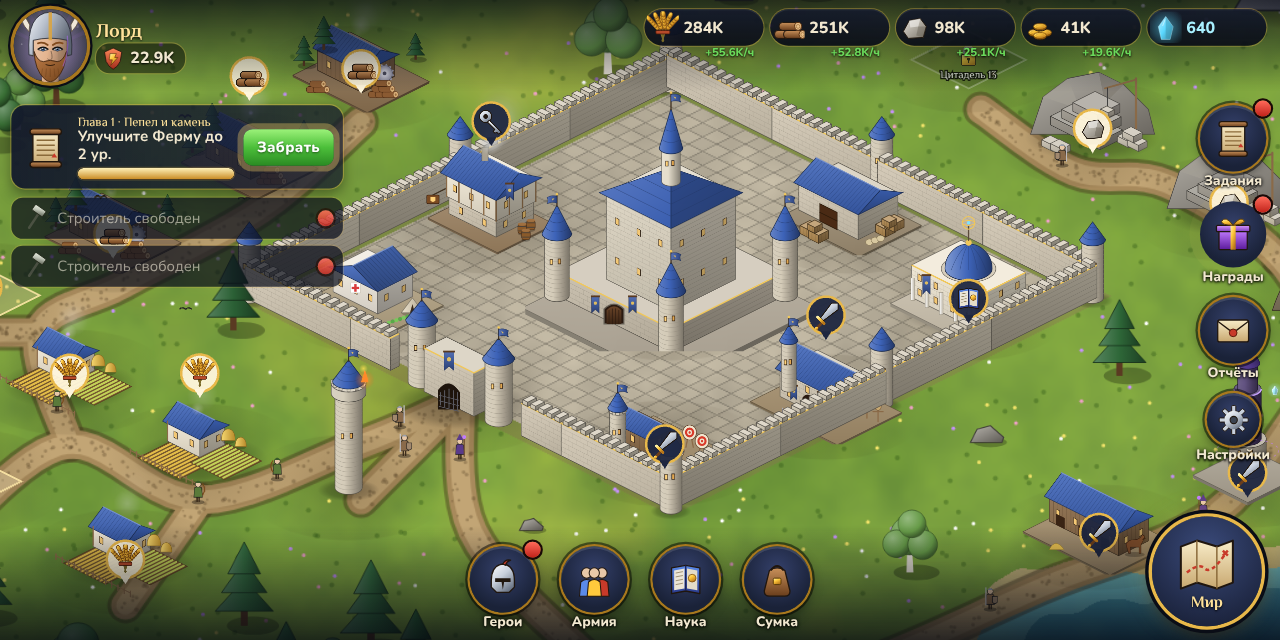
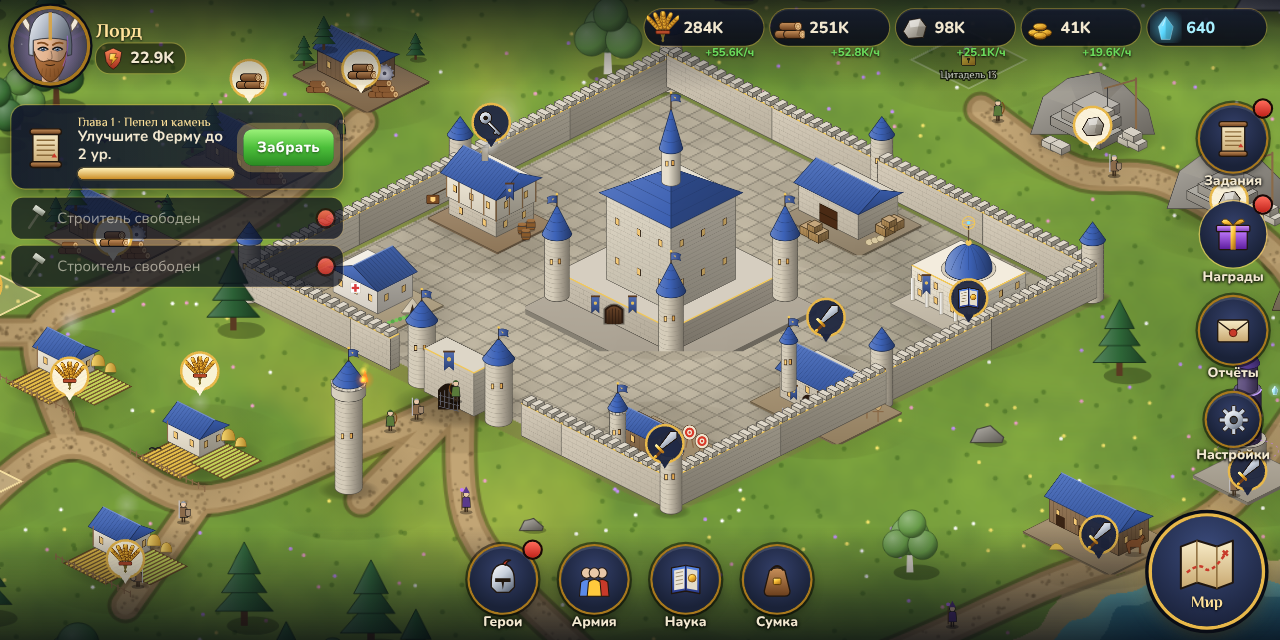
Performance: faster procedural painting, adaptive resolution, FPS meter
- Precomputed tileable noise replaces per-pixel fbm in visual painting
  (city ground 566→249 ms, world terrain 918→~560 ms on desktop)
- Lower texture density for the 'economy' quality preset, 30 FPS cap there
- Adaptive render resolution steps down when FPS stays low and back up when it recovers
- Optional FPS overlay in Settings; ticker stops while the app is in the background
- Fog of war: organic round edges and a blur that does not depend on ctx.filter
- Domain-warped biome borders remove blocky tile edges on the world map

Claude-Session: https://claude.ai/code/session_01FWABmDaWjHwgaijyh2JcTn

diff --git a/src/render/worldScene.ts b/src/render/worldScene.ts
@@ -1,6 +1,6 @@
 import { Container, Graphics, Sprite, Text, type Application } from 'pixi.js';
 import { bus } from '../core/bus';
-import { fbm, hash2 } from '../core/rng';
+import { hash2, noiseTile } from '../core/rng';
 import type { Legion, WorldObject } from '../core/types';
 import { campArt, castleArt, mountainArt, nodeArt, riftArt, riftVortex, ruinArt, soldierArt, titanArt, treeArt, hillArt } from '../art/worldArt';
 import { PALETTES } from '../art/buildings';
@@ -15,7 +15,7 @@ import { bake, canvasTexture, get, type Baked } from './textures';
 
 export const TILE = 64;
 const CHUNK = 16;
-const TEX_PER_TILE = 12;
+let TEX_PER_TILE = 12;
 
 const BASE: Record<number, [number, number, number]> = {
   // water tiles blend as wet sand; water itself is painted from the continuous height field
@@ -58,6 +58,7 @@ export class WorldScene {
   private selRing: Sprite | null = null;
   private selMarker: Container | null = null;
   private time = 0;
+  perf: Record<string, number> = {};
   private lastFogPaint = -9;
   private lastSync = 0;
 
@@ -76,6 +77,7 @@ export class WorldScene {
   }
 
   async init(progress?: (f: number) => void) {
+    TEX_PER_TILE = this.game.s.settings.quality === 'low' ? 8 : 12;
     const jobs: Promise<unknown>[] = [];
     const f = this.game.s.player.faction;
     for (let v = 0; v < 3; v++) jobs.push(bake(`wcamp:${v}`, () => campArt(v)));
@@ -97,10 +99,16 @@ export class WorldScene {
     let done = 0;
     jobs.forEach((j) => j.then(() => progress?.(++done / (jobs.length + 2))));
     await Promise.all(jobs);
+    let t = performance.now();
     this.paintTerrain();
+    this.perf.terrain = Math.round(performance.now() - t);
+    t = performance.now();
     progress?.((done + 1) / (jobs.length + 2));
     this.buildDecor();
+    this.perf.decor = Math.round(performance.now() - t);
+    t = performance.now();
     this.buildFog();
+    this.perf.fog = Math.round(performance.now() - t);
     this.syncObjects();
     this.syncLegions();
     bus.on('fog', () => { this.fogDirty = true; });
@@ -120,6 +128,8 @@ export class WorldScene {
     const d = img.data;
     const t = this.ter.t, h = this.ter.h;
     const seed = this.ter.seed;
+    // tile period: 32 px per lattice cell at octave 0 → scale k = 32 / featureSize
+    const NA = noiseTile(seed + 5, 256, 3, 8), NB = noiseTile(seed + 9, 256, 3, 8);
     const H = (x: number, y: number) => {
       x = Math.max(0, Math.min(n - 1.001, x)); y = Math.max(0, Math.min(n - 1.001, y));
       const xi = Math.floor(x), yi = Math.floor(y), ax = x - xi, ay = y - yi;
@@ -131,22 +141,24 @@ export class WorldScene {
       for (let px = 0; px < W; px++) {
         const fx = px / P - 0.5;
         const x0 = Math.max(0, Math.min(n - 1, Math.floor(fx))), x1 = Math.min(n - 1, x0 + 1), kx = Math.max(0, Math.min(1, fx - x0));
-        // jitter blend weights with noise for organic borders
-        const jn = fbm(px / 9, py / 9, seed + 5, 2) - 0.5;
-        const kxj = Math.max(0, Math.min(1, kx + jn * 0.7)), kyj = Math.max(0, Math.min(1, ky + jn * 0.7));
+        // bilinear blend of the four surrounding tiles…
         const c00 = BASE[t[y0 * n + x0]], c10 = BASE[t[y0 * n + x1]], c01 = BASE[t[y1 * n + x0]], c11 = BASE[t[y1 * n + x1]];
+        // …mixed with a domain-warped nearest tile, which turns square tile borders into organic shapes
+        const wx = Math.round(fx + (NA(px * 1.6, py * 1.6) - 0.5) * 3.2 + (NB(px * 5, py * 5) - 0.5) * 1.3);
+        const wy = Math.round(fy + (NA(px * 1.6 + 53, py * 1.6 + 29) - 0.5) * 3.2 + (NB(px * 5 + 31, py * 5 + 17) - 0.5) * 1.3);
+        const cw = BASE[t[Math.max(0, Math.min(n - 1, wy)) * n + Math.max(0, Math.min(n - 1, wx))]];
         let r = 0, g = 0, b = 0;
         for (let k = 0; k < 3; k++) {
-          const top = c00[k] * (1 - kxj) + c10[k] * kxj;
-          const bot = c01[k] * (1 - kxj) + c11[k] * kxj;
-          const v = top * (1 - kyj) + bot * kyj;
+          const top = c00[k] * (1 - kx) + c10[k] * kx;
+          const bot = c01[k] * (1 - kx) + c11[k] * kx;
+          const v = (top * (1 - ky) + bot * ky) * 0.35 + cw[k] * 0.65;
           if (k === 0) r = v; else if (k === 1) g = v; else b = v;
         }
         // continuous height for shading & water
         const hh = H(fx, fy);
         const hx = H(fx + 0.6, fy) - H(fx - 0.6, fy), hy = H(fx, fy + 0.6) - H(fx, fy - 0.6);
-        const detail = fbm(px / 3.5, py / 3.5, seed + 9, 2) - 0.5;
-        const wn = (fbm(px / 14, py / 14, seed + 11, 2) - 0.5) * 0.02;
+        const detail = NB(px * 9.1, py * 9.1) - 0.5;
+        const wn = (NB(px * 2.3 + 97, py * 2.3 + 41) - 0.5) * 0.02;
         if (hh + wn < 0.39) {
           const depth = Math.max(0, Math.min(1, (0.39 - hh) / 0.2));
           r = 70 - depth * 46 + detail * 8; g = 140 - depth * 70 + detail * 10; b = 168 - depth * 40 + detail * 10;
@@ -154,7 +166,7 @@ export class WorldScene {
         } else {
           const shadeV = (-hx - hy) * 140;
           r += shadeV + detail * 22; g += shadeV + detail * 22; b += shadeV * 0.8 + detail * 14;
-          const macro = fbm(px / 60, py / 60, seed + 17, 3) - 0.5;
+          const macro = NA(px * 0.53 + 131, py * 0.53 + 77) - 0.5;
           r += macro * 26; g += macro * 22; b += macro * 10;
         }
         const i = (py * W + px) * 4;
@@ -235,6 +247,7 @@ export class WorldScene {
 
   private cloudCanvas: HTMLCanvasElement | null = null;
   private maskCanvas: HTMLCanvasElement | null = null;
+  private blurCanvas: HTMLCanvasElement | null = null;
   private paintFog() {
     const n = this.ter.size, P = 6, W = n * P;
     if (!this.cloudCanvas) {
@@ -242,8 +255,9 @@ export class WorldScene {
       cc.width = cc.height = W;
       const cx = cc.getContext('2d')!;
       const img = cx.createImageData(W, W);
+      const CN = noiseTile(777, 256, 5, 4);
       for (let y = 0; y < W; y++) for (let x = 0; x < W; x++) {
-        const v = fbm(x / 40, y / 40, 777, 4);
+        const v = CN(x * 0.34, y * 0.34);
         const i = (y * W + x) * 4;
         img.data[i] = 150 + v * 90; img.data[i + 1] = 162 + v * 84; img.data[i + 2] = 186 + v * 64; img.data[i + 3] = 255;
       }
@@ -261,12 +275,24 @@ export class WorldScene {
     m.clearRect(0, 0, W, W);
     m.fillStyle = '#000';
     const fog = this.game.fog;
-    for (let y = 0; y < n; y++) for (let x = 0; x < n; x++) if (fog[y * n + x]) m.fillRect(x * P - 1, y * P - 1, P + 2, P + 2);
+    // round brushes give organic edges; interior tiles use cheap rects
+    for (let y = 0; y < n; y++) for (let x = 0; x < n; x++) {
+      if (!fog[y * n + x]) continue;
+      const edge = x === 0 || y === 0 || x === n - 1 || y === n - 1 || !fog[y * n + x - 1] || !fog[y * n + x + 1] || !fog[(y - 1) * n + x] || !fog[(y + 1) * n + x];
+      if (edge) { m.beginPath(); m.arc(x * P + P / 2, y * P + P / 2, P * 0.9, 0, Math.PI * 2); m.fill(); }
+      else m.fillRect(x * P - 1, y * P - 1, P + 2, P + 2);
+    }
+    // soft edge without ctx.filter (unsupported on some WebViews): downscale, then upscale with smoothing
+    if (!this.blurCanvas) { this.blurCanvas = document.createElement('canvas'); this.blurCanvas.width = this.blurCanvas.height = Math.ceil(W / 6); }
+    const bc = this.blurCanvas, bx = bc.getContext('2d')!;
+    bx.imageSmoothingEnabled = true;
+    bx.clearRect(0, 0, bc.width, bc.height);
+    bx.drawImage(mask, 0, 0, bc.width, bc.height);
     ctx.globalCompositeOperation = 'destination-out';
-    ctx.filter = 'blur(7px)';
-    ctx.drawImage(mask, 0, 0);
-    ctx.drawImage(mask, 0, 0);
-    ctx.filter = 'none';
+    ctx.imageSmoothingEnabled = true;
+    ctx.imageSmoothingQuality = 'high';
+    ctx.drawImage(bc, 0, 0, W, W);
+    ctx.drawImage(bc, 0, 0, W, W);
     ctx.globalCompositeOperation = 'source-over';
     const old = this.fogSprite.texture;
     this.fogSprite.texture = canvasTexture(this.fogCanvas);

diff --git a/src/app.ts b/src/app.ts
@@ -18,6 +18,7 @@ export class GameApp {
   private simAcc = 0;
   private saveAcc = 0;
   paused = false;
+  timings: Record<string, number> = {};
 
   constructor(public game: Game) {}
 
@@ -41,15 +42,55 @@ export class GameApp {
       bus.emit('gl-lost');
     });
     this.app.canvas.addEventListener('webglcontextrestored', () => { this.save().finally(() => location.reload()); });
+    let t0 = performance.now();
     this.city = new CityScene(this.app, this.game);
     await this.city.init((f) => progress(f * 0.6, 'Возведение крепости…'));
+    this.timings.city = Math.round(performance.now() - t0);
+    t0 = performance.now();
     this.world = new WorldScene(this.app, this.game);
     await this.world.init((f) => progress(0.6 + f * 0.4, 'Пробуждение земель…'));
+    this.timings.world = Math.round(performance.now() - t0);
     this.app.stage.addChild(this.city.root, this.world.root);
     this.world.leave();
     this.city.enter();
-    this.app.ticker.add((t) => this.frame(t.deltaMS / 1000));
+    if (low) this.app.ticker.maxFPS = 30;
+    this.maxRes = this.app.renderer.resolution;
+    this.res = this.maxRes;
+    this.app.ticker.add((t) => { this.measure(t.deltaMS); this.frame(t.deltaMS / 1000); });
     bus.on('state', () => { this.city.refresh(); this.world.refresh(); });
+  }
+
+  // ———————————————— performance: FPS meter & adaptive render resolution
+  fps = 60;
+  res = 1;
+  private maxRes = 1;
+  private frames = 0;
+  private fpsT = 0;
+  private slow = 0;
+  private fast = 0;
+
+  private measure(ms: number) {
+    this.frames++;
+    this.fpsT += ms;
+    if (this.fpsT < 1000) return;
+    this.fps = Math.round((this.frames * 1000) / this.fpsT);
+    this.frames = 0;
+    this.fpsT = 0;
+    bus.emit('fps', this.fps);
+    if (this.paused || document.hidden) return;
+    const target = this.app.ticker.maxFPS ? this.app.ticker.maxFPS : 60;
+    if (this.fps < target * 0.65) { this.slow++; this.fast = 0; } else if (this.fps > target * 0.93) { this.fast++; this.slow = 0; } else { this.slow = 0; this.fast = 0; }
+    if (this.slow >= 3 && this.res > 1) { this.setResolution(this.res - 0.25); this.slow = 0; }
+    else if (this.fast >= 15 && this.res < this.maxRes) { this.setResolution(this.res + 0.25); this.fast = 0; }
+  }
+
+  setResolution(r: number) {
+    this.res = Math.max(1, Math.min(this.maxRes, r));
+    this.app.renderer.resize(window.innerWidth, window.innerHeight, this.res);
+  }
+
+  setBackground(hidden: boolean) {
+    if (hidden) this.app.ticker.stop(); else this.app.ticker.start();
   }
 
   /** set after repeated failures; the crash screen decides what happens next */

diff --git a/src/core/rng.ts b/src/core/rng.ts
@@ -46,3 +46,36 @@ export function pick<T>(rnd: () => number, arr: readonly T[]): T {
 export function randInt(rnd: () => number, min: number, max: number): number {
   return min + Math.floor(rnd() * (max - min + 1));
 }
+
+/**
+ * Precomputed tileable fBm noise (size×size, power of two) with fast bilinear sampling.
+ * Used for purely visual texturing where calling fbm() per pixel would be too slow.
+ */
+export function noiseTile(seed: number, size = 256, octaves = 4, period = 8): (x: number, y: number) => number {
+  const data = new Float32Array(size * size);
+  // tileable value noise: lattice wraps every `p` cells
+  const tv = (ix: number, iy: number, p: number, s: number) => hash2(((ix % p) + p) % p, ((iy % p) + p) % p, s);
+  for (let y = 0; y < size; y++) {
+    for (let x = 0; x < size; x++) {
+      let sum = 0, amp = 0.5, norm = 0, p = period;
+      for (let o = 0; o < octaves; o++) {
+        const fx = (x / size) * p, fy = (y / size) * p;
+        const xi = Math.floor(fx), yi = Math.floor(fy);
+        const u = fx - xi, v = fy - yi;
+        const su = u * u * (3 - 2 * u), sv = v * v * (3 - 2 * v);
+        const a = tv(xi, yi, p, seed + o), b = tv(xi + 1, yi, p, seed + o), c = tv(xi, yi + 1, p, seed + o), d = tv(xi + 1, yi + 1, p, seed + o);
+        sum += (a + (b - a) * su + (c - a) * sv + (a - b - c + d) * su * sv) * amp;
+        norm += amp; amp *= 0.5; p *= 2;
+      }
+      data[y * size + x] = sum / norm;
+    }
+  }
+  const m = size - 1;
+  return (x: number, y: number) => {
+    const xi = Math.floor(x), yi = Math.floor(y);
+    const fx = x - xi, fy = y - yi;
+    const x0 = xi & m, y0 = yi & m, x1 = (x0 + 1) & m, y1 = (y0 + 1) & m;
+    const a = data[y0 * size + x0], b = data[y0 * size + x1], c = data[y1 * size + x0], d = data[y1 * size + x1];
+    return (a + (b - a) * fx) * (1 - fy) + (c + (d - c) * fx) * fy;
+  };
+}

diff --git a/src/render/cityGround.ts b/src/render/cityGround.ts
@@ -1,4 +1,4 @@
-import { fbm, hash2 } from '../core/rng';
+import { hash2, noiseTile } from '../core/rng';
 import { CITY_CENTER, CITY_H, CITY_W, GATE, PLOTS, WALL_RX, WALL_RY } from '../data/cityLayout';
 
 export type Pt = { x: number; y: number };
@@ -48,8 +48,10 @@ export function inWall(x: number, y: number, margin = 0): boolean {
   return Math.abs(x - CITY_CENTER.x) / (WALL_RX + margin) + Math.abs(y - CITY_CENTER.y) / (WALL_RY + margin / 2) < 1;
 }
 
+let LN: ((x: number, y: number) => number) | null = null;
 export function lakeDist(x: number, y: number): number {
-  const n = fbm(x / 160, y / 160, 99, 3);
+  LN ??= noiseTile(99, 128, 3, 4);
+  const n = LN(x * 0.2, y * 0.2);
   const dx = (x - LAKE.x) / 1.6, dy = y - LAKE.y;
   return Math.sqrt(dx * dx + dy * dy) / (LAKE.r * (0.75 + n * 0.5));
 }
@@ -62,15 +64,16 @@ export function paintCityGround(scale = 0.5): HTMLCanvasElement {
   const ctx = c.getContext('2d')!;
   const img = ctx.createImageData(W, H);
   const d = img.data;
+  const N1 = noiseTile(7, 256, 4, 8), N2 = noiseTile(13, 256, 2, 8), N3 = noiseTile(21, 256, 3, 8);
   for (let py = 0; py < H; py++) {
     for (let px = 0; px < W; px++) {
       const x = px / scale, y = py / scale;
-      const n = fbm(x / 220, y / 220, 7, 4);
-      const n2 = fbm(x / 40, y / 40, 13, 2);
+      const n = N1(x * 0.145, y * 0.145);
+      const n2 = N2(x * 0.8, y * 0.8);
       // grass
       let r = 88 + n * 50 + n2 * 14, g = 128 + n * 46 + n2 * 16, b = 52 + n * 18;
       // dry patches
-      const dry = fbm(x / 300, y / 300, 21, 3);
+      const dry = N3(x * 0.107, y * 0.107);
       if (dry > 0.58) { const t = Math.min(1, (dry - 0.58) * 5); r += 30 * t; g += 12 * t; b += 4 * t; }
       // inner city stone
       if (inWall(x, y, -24)) {

diff --git a/src/ui/App.tsx b/src/ui/App.tsx
@@ -206,6 +206,12 @@ function Tutorial() {
   );
 }
 
+function FpsMeter() {
+  const g = useGame(['fps', 'state']);
+  if (!g.s.settings.showFps) return null;
+  return <div class="pass" style={{ position: 'absolute', left: 300, top: 6, padding: '2px 8px', borderRadius: 6, background: 'rgba(0,0,0,.6)', fontSize: 12, fontWeight: 800, color: ga.fps >= 50 ? '#9cf27a' : ga.fps >= 30 ? '#ffb84a' : '#ff6a5a' }}>{ga.fps} FPS · ×{ga.res.toFixed(2)}</div>;
+}
+
 // ———————————————————————————————————————— root
 export function App({ welcome }: { welcome?: { away: number; gained: Record<string, number> } | null }) {
   const store = useStore();
@@ -242,6 +248,7 @@ export function App({ welcome }: { welcome?: { away: number; gained: Record<stri
       {!story && !reward && !wb && <Tutorial />}
       <FlyRes />
       <Toasts />
+      <FpsMeter />
       <CrashScreen />
     </div>
   );

diff --git a/src/render/cityScene.ts b/src/render/cityScene.ts
@@ -66,6 +66,7 @@ export class CityScene {
   selected: string | null = null;
   private selGlow: Sprite | null = null;
   private time = 0;
+  perf: Record<string, number> = {};
   private emitAcc = 0;
   night = 0;
   private faction: FactionId;
@@ -85,9 +86,12 @@ export class CityScene {
   }
 
   async init(progress?: (f: number) => void) {
-    const groundTex = canvasTexture(paintCityGround(0.5));
+    const tg = performance.now();
+    const gScale = this.game.s.settings.quality === 'low' ? 0.35 : 0.5;
+    const groundTex = canvasTexture(paintCityGround(gScale));
+    this.perf.ground = Math.round(performance.now() - tg);
     const g = new Sprite(groundTex);
-    g.scale.set(2);
+    g.scale.set(1 / gScale);
     this.ground.addChild(g);
     // texture preload
     const jobs: Promise<unknown>[] = [];

diff --git a/src/game/game.ts b/src/game/game.ts
@@ -1376,7 +1376,9 @@ export function migrate(s: GameState) {
   if (!s.stats) s.stats = emptyStats();
   for (const [k, v] of Object.entries(emptyStats())) if ((s.stats as any)[k] == null) (s.stats as any)[k] = v;
   if (!s.titans) s.titans = { tamed: {}, active: null };
-  if (!s.settings) s.settings = { sound: true, music: true, haptics: true, quality: 'high', dayNight: true };
+  if (!s.settings) s.settings = { sound: true, music: true, haptics: true, quality: 'high', dayNight: true, showFps: false, notifications: true };
+  if (s.settings.showFps == null) s.settings.showFps = false;
+  if (s.settings.notifications == null) s.settings.notifications = true;
   if (s.settings.dayNight == null) s.settings.dayNight = true;
   if (!s.raids) s.raids = [];
   if (s.raidCooldown == null) s.raidCooldown = 0;

diff --git a/src/ui/panels/misc.tsx b/src/ui/panels/misc.tsx
@@ -292,7 +292,7 @@ export function SettingsPanel() {
   return (
     <Panel title="Настройки" width={640} icon="gear">
       <div class="col">
-        {([['sound', 'Звуковые эффекты'], ['music', 'Музыка'], ['haptics', 'Вибрация'], ['dayNight', 'Смена дня и ночи']] as const).map(([k, l]) => (
+        {([['sound', 'Звуковые эффекты'], ['music', 'Музыка'], ['haptics', 'Вибрация'], ['dayNight', 'Смена дня и ночи'], ['showFps', 'Показывать FPS']] as const).map(([k, l]) => (
           <div class="card row"><b class="grow">{l}</b><Toggle on={!!s[k]} onChange={(v) => set(k, v)} /></div>
         ))}
         <div class="card row"><b class="grow">Качество графики</b>

diff --git a/src/main.tsx b/src/main.tsx
@@ -78,8 +78,8 @@ async function start(game: Game, welcome: { away: number; gained: Record<string,
   window.addEventListener('pointerdown', unlock);
   // lifecycle
   document.addEventListener('visibilitychange', () => {
-    if (document.hidden) { ga.save(); suspendAudio(true); ga.paused = true; }
-    else { ga.paused = false; suspendAudio(false); ga.game.tick(Date.now(), false); }
+    if (document.hidden) { ga.save(); suspendAudio(true); ga.paused = true; ga.setBackground(true); }
+    else { ga.paused = false; suspendAudio(false); ga.game.tick(Date.now(), false); ga.setBackground(false); }
   });
   window.addEventListener('beforeunload', () => { ga.save(); });
   if (Capacitor.isNativePlatform()) {

diff --git a/src/game/state.ts b/src/game/state.ts
@@ -59,7 +59,7 @@ export function newGame(faction: FactionId, name: string, seed = (Math.random() 
     titans: { tamed: {}, active: null },
     defender: 'torvald',
     tutorial: { step: 0, done: false },
-    settings: { sound: true, music: true, haptics: true, quality: 'high', dayNight: true },
+    settings: { sound: true, music: true, haptics: true, quality: 'high', dayNight: true, showFps: false, notifications: true },
     nextId: 1,
     introSeen: false,
   };

diff --git a/src/core/types.ts b/src/core/types.ts
@@ -164,6 +164,8 @@ export interface Settings {
   haptics: boolean;
   quality: 'high' | 'low';
   dayNight: boolean;
+  showFps: boolean;
+  notifications: boolean;
 }
 
 export interface Stats {
